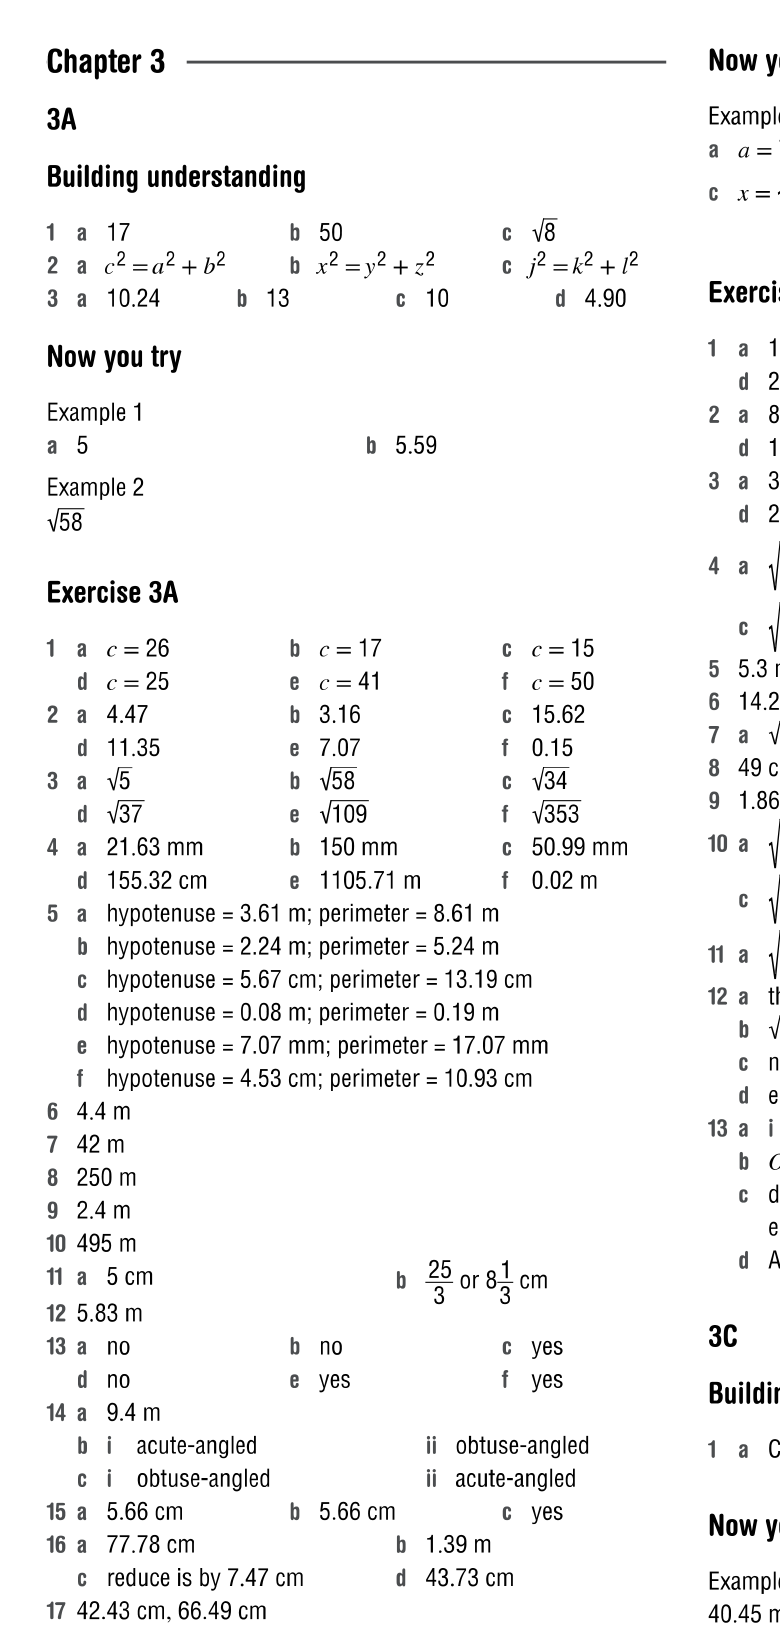
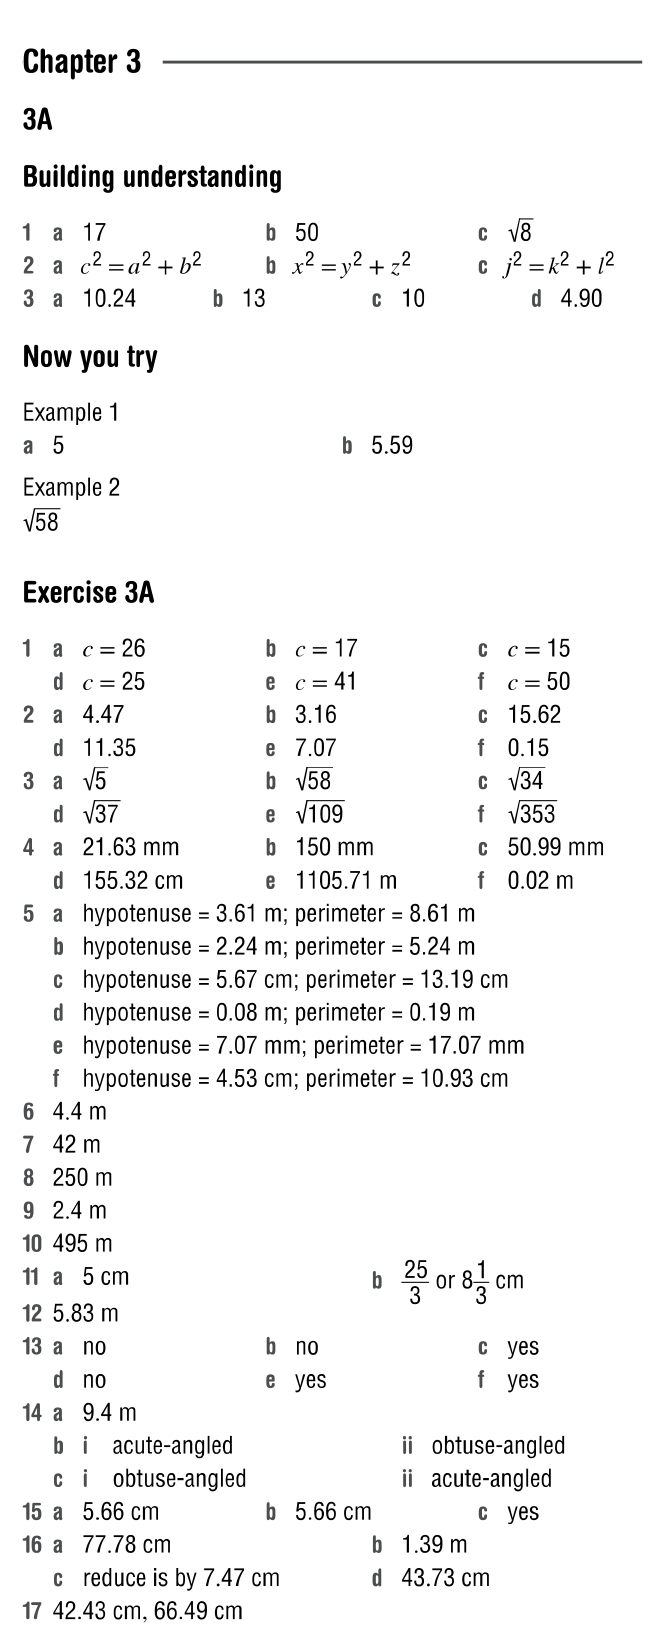
Add crop cache-busting, fix answer-column text clipping, verify 3B ex12's split control
The recurring "still broken" reports after fixes that verified clean
in the actual shipped files (b3ex9, c3ex8) were a caching bug, not
incomplete fixes: --project-id rebuilds (by design) keep every crop's
exact filename across a rebuild, so a browser or CDN that already
cached a crop's old bytes under that URL has no signal the file
changed server-side and can keep serving the stale, broken version
indefinitely. workbook.json now carries a fresh buildVersion every
build, appended as a ?v= query string on every crop <img> src
(render.js) and on the crop tool's own source URLs (app.js) - a
different URL every rebuild, so a stale cache can never be served
again regardless of how aggressively anything cached the old one.

Also fixes real clipping in the 3A/3B/3C answer crops: their left/right
edges used the nominal two-column layout boundaries (x=40/300/500)
rather than each column's real text extent, slicing through live
characters on both sides ("Now you try" read as "ou try", "Exercise
3B" as "se 3B"). Found each column's actual text boundaries by
scanning for the blank vertical gutter between columns and the page's
own side-tab margin, instead of guessing.

3B ex12's "2 or 3 split" ask turned out to already be there - its
group layout picker already offers Combined/1/2/3/4 same as any other
split group (confirmed live: 2-split is just its current default).
Very likely the same caching issue made it look unavailable.
[…]

diff --git a/static/render.js b/static/render.js
@@ -46,6 +46,16 @@ const USABLE_HEIGHT_PX = (PAGE_HEIGHT_MM - 2 * PAGE_MARGIN_MM - PAGE_SAFETY_MARG
 const MIN_SQUEEZE_MM = SIZE_PRESETS_MM.small;
 const MIN_SQUEEZE_PX = MIN_SQUEEZE_MM * CSS_PX_PER_MM;
 
+// Set once per renderEditor() call, from workbook.buildVersion - see
+// its own comment in add_chapter.py for why every crop <img> src needs
+// this appended (a rebuilt crop keeps the exact same filename, so
+// nothing else would ever tell a browser or CDN the cached bytes under
+// that URL just went stale).
+let currentBuildVersion = "";
+function versionSuffix() {
+  return currentBuildVersion ? `?v=${encodeURIComponent(currentBuildVersion)}` : "";
+}
+
 let measurerEl = null;
 function getMeasurer() {
   if (!measurerEl) {
@@ -622,16 +632,18 @@ function markGrowthLocked(html) {
 function cropHtml(cropsBaseUrl, crop, contextImage, widthMm, imageScale, manualCropSrc) {
   let contextHtml = "";
   if (contextImage) {
-    contextHtml = `<img src="${escapeHtml(cropsBaseUrl)}/${escapeHtml(contextImage)}.png">`;
+    contextHtml = `<img src="${escapeHtml(cropsBaseUrl)}/${escapeHtml(contextImage)}.png${versionSuffix()}">`;
   }
   let style = "";
   if (widthMm) style = ` style="width:${widthMm}mm"`;
   else if (imageScale && imageScale !== 100) style = ` style="width:${imageScale}%"`;
   // A manually re-cropped PNG (see crop.js) - a data: URL standing in
-  // for the original file. Everything downstream (pagination
+  // for the original file, so there's no server-side URL to ever go
+  // stale in a cache - versionSuffix() only matters for the plain
+  // server-file path below. Everything downstream (pagination
   // measurement, the diagram-scale control, print export) just sees
   // another <img src>, no special-casing needed anywhere else.
-  const src = manualCropSrc ? escapeHtml(manualCropSrc) : `${escapeHtml(cropsBaseUrl)}/${escapeHtml(crop)}.png`;
+  const src = manualCropSrc ? escapeHtml(manualCropSrc) : `${escapeHtml(cropsBaseUrl)}/${escapeHtml(crop)}.png${versionSuffix()}`;
   return `<div class="block-crop"${style}>${contextHtml}<img src="${src}"></div>`;
 }
 
@@ -1002,6 +1014,7 @@ function isSectionStart(page) {
 }
 
 export async function renderEditor(workbook, cropsBaseUrl) {
+  currentBuildVersion = workbook.buildVersion || "";
   const combinedBlocks = workbook.combinedBlocks || {};
   const deletedIds = new Set(workbook.deletedIds || []);
   const filterCtx = buildFilterContext(workbook);

diff --git a/static/app.js b/static/app.js
@@ -246,8 +246,12 @@ function imageExists(src) {
 async function handleOpenCrop(kind, id) {
   const entry = entryFor(kind, id);
   if (!entry) return;
-  const fullSrc = `data/${currentProjectId}/crops/${id}__full.png`;
-  const tightSrc = `data/${currentProjectId}/crops/${id}.png`;
+  // ?v= busts any stale browser/CDN cache of this exact filename from
+  // before the most recent rebuild - see buildVersion's own comment in
+  // add_chapter.py.
+  const v = currentWorkbook.buildVersion ? `?v=${encodeURIComponent(currentWorkbook.buildVersion)}` : "";
+  const fullSrc = `data/${currentProjectId}/crops/${id}__full.png${v}`;
+  const tightSrc = `data/${currentProjectId}/crops/${id}.png${v}`;
   const hasFull = await imageExists(fullSrc);
   const originalSrc = hasFull ? fullSrc : tightSrc;
   const initialRect = entry.manualCropRect || (hasFull ? entry.defaultCropRect : undefined);

diff --git a/tools/add_chapter.py b/tools/add_chapter.py
@@ -369,6 +369,17 @@ def build_project(docs: dict, title: str, pages_proposals: list[dict], project_d
         "id": project_id,
         "title": title,
         "sourcePdfName": os.path.basename(docs["chapter"].name),
+        # A fresh value every build, including a --project-id rebuild
+        # that reuses the same project id - crop PNGs keep the exact
+        # same filename across a rebuild (that's the whole point of
+        # --project-id: same URLs, so a browser or CDN that's already
+        # cached the old bytes under that URL has no reason to ever
+        # re-fetch them, and silently keeps showing a fixed crop's
+        # *old*, broken pixels). Every <img> src appends this as a
+        # ?v= query string (see render.js/app.js), which is a different
+        # URL each build and therefore never serves a stale cached
+        # image no matter how aggressively it was cached.
+        "buildVersion": uuid.uuid4().hex[:8],
         "pages": pages,
         "groupLayout": group_layout,
         "combinedBlocks": combined_blocks,
